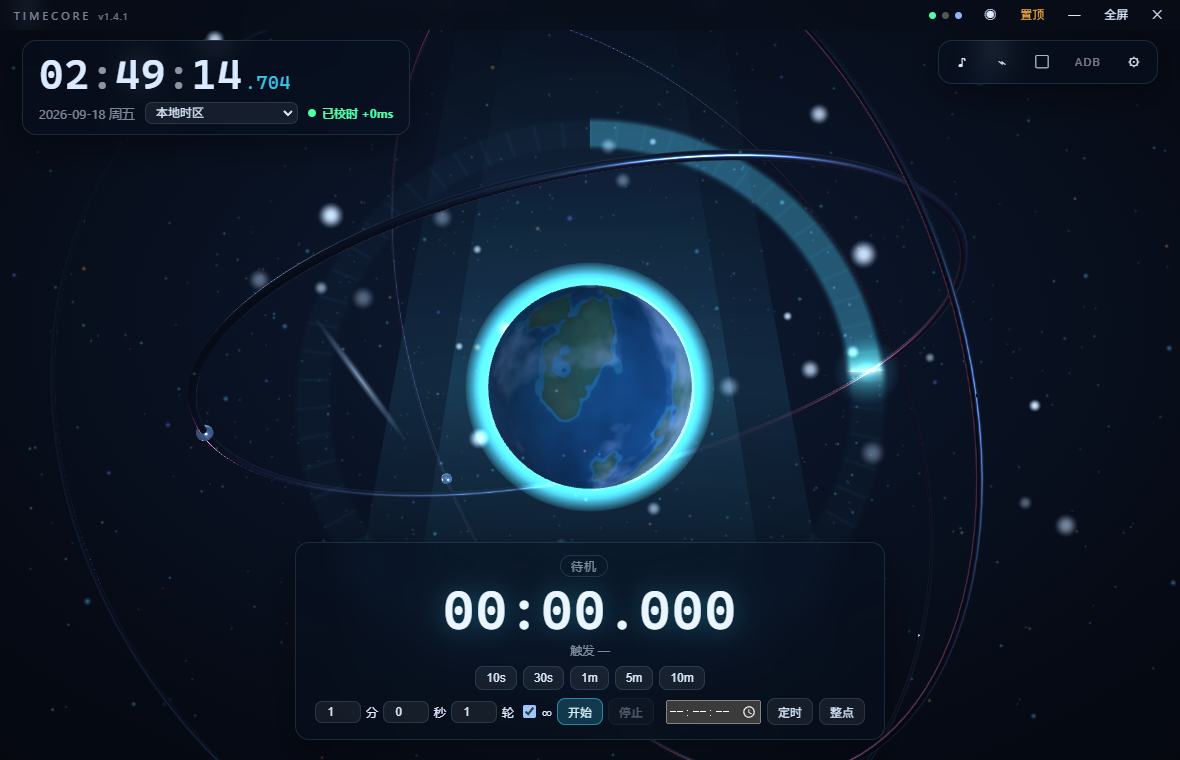
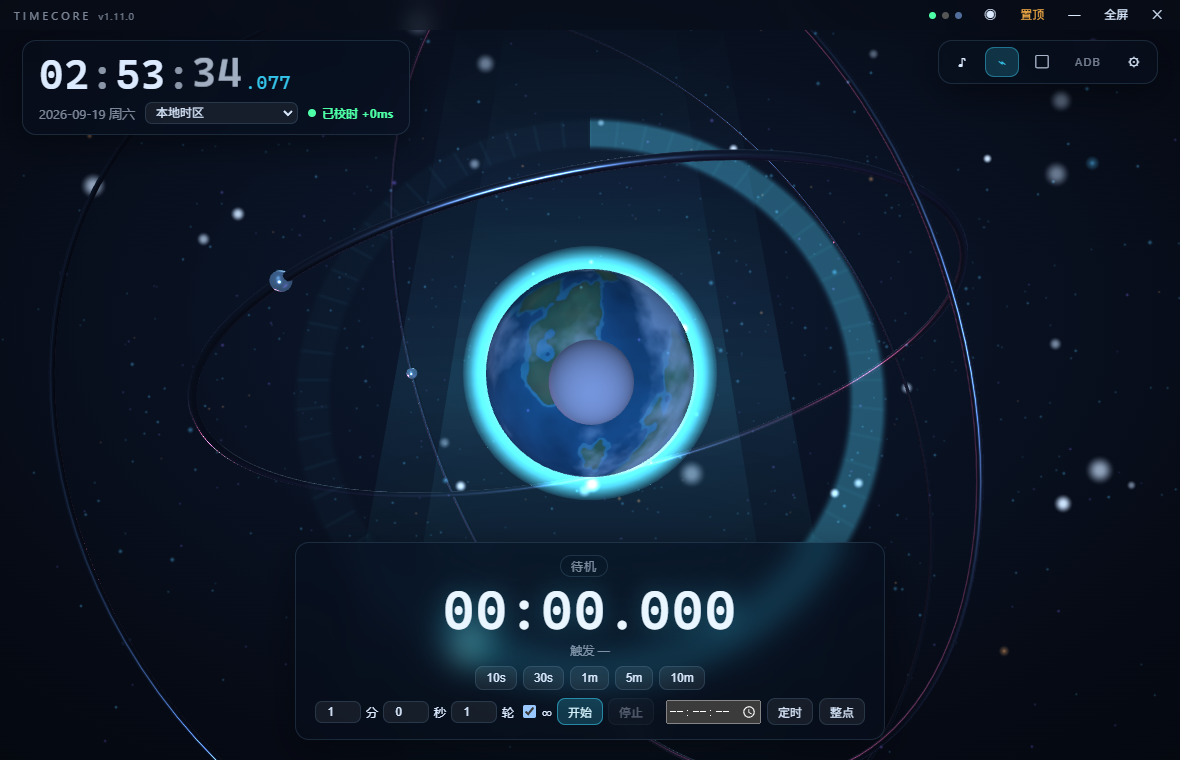
feat: v1.11.0 月相夜光 + 文档收口
- moon-phase 模块新增 illum（照亮比例，契约 15 项）；夜光强度随真实月相盈亏调制（0.17~0.50，地板保底）
- README 主图以午夜满月构图重拍；debugMoon 新增 screen 投影坐标、debugSun 新增 keyColor（构图取证用）
- cycle31 午夜断言对齐月相调制物理区间；cycle33 扩至 13 断言（满月夜 > 2× 新月夜）
- 全量 41 契约 752 断言 + 九组 cycle + 真机 e2e 全绿

diff --git a/js/scene3d.js b/js/scene3d.js
@@ -56,7 +56,9 @@
     scene.userData.keyLight.color.setRGB(1, 0.8 + 0.2 * (1 - warm), 0.62 + 0.38 * (1 - warm));
     scene.userData.keyLight.intensity = day * (0.55 + cur.intensity * 0.25);
     if (moonLight) {
-      moonLight.intensity = (1 - day) * 0.55;
+      // 夜光随真实月相调制（v1.11.0）：满月夜明亮、新月夜沉暗；floor 保底不让夜面全黑
+      const illum = TimeCoreDomain.moonPhase(moonEpoch(e)).illum;
+      moonLight.intensity = (1 - day) * 0.55 * (0.35 + 0.65 * illum);
       moonLight.color.setHex(0x8fb4ff);
     }
   }
@@ -846,7 +848,8 @@
         lastFrame: lastFrameInfo,
         trails: sats.filter(s => s.trail && s.trail.visible).length,
         dayFrac: scene.userData.dayFrac != null ? Math.round(scene.userData.dayFrac * 10000) / 10000 : null,
-        hourPulses: hourPulseCount
+        hourPulses: hourPulseCount,
+        keyColor: k.color.getHexString()
       } : null;
     },
     meteor() { if (meteor && quality > 0) { spawnMeteor(); return true; } return false; },
@@ -875,7 +878,12 @@
         angleDeg: Math.round(st.angleRad * 180 / Math.PI * 10) / 10,
         azimuthDot: Math.round(azimuthDot * 1000) / 1000,
         litDot: Math.round(dot * 1000) / 1000,
-        visible: moon.visible
+        visible: moon.visible,
+        // 屏幕投影（构图/测试用）：月亮中心在视口内的像素坐标
+        screen: (() => {
+          const v = moon.position.clone().project(camera);
+          return { x: Math.round((v.x + 1) / 2 * window.innerWidth), y: Math.round((1 - (v.y + 1) / 2) * window.innerHeight) };
+        })()
       };
     },
     debugView() { return { ...cameraMotion.state(), dragging: scenePointer.active && scenePointer.moved, canvas: !!sceneCanvas }; }

diff --git a/src/domain/scene/moon-phase.ts b/src/domain/scene/moon-phase.ts
@@ -4,6 +4,7 @@ namespace TimeCoreDomain {
     phase: number;        // 0 新月 → 0.5 满月 → 1 下一个新月
     angleRad: number;     // 轨道角：新月 0（位于太阳与星球连线之间），满月 π（背向太阳）
     waxing: boolean;      // 盈月（新月→满月）为 true
+    illum: number;        // 被照亮比例：0 新月 → 1 满月（(1−cos 2π·phase)/2）
   }
 
   export const MOON_SYNODIC_DAYS = 29.530588853;
@@ -17,7 +18,8 @@ namespace TimeCoreDomain {
       ageDays: phase * MOON_SYNODIC_DAYS,
       phase,
       angleRad: phase * Math.PI * 2,
-      waxing: phase < 0.5
+      waxing: phase < 0.5,
+      illum: (1 - Math.cos(phase * Math.PI * 2)) / 2
     };
   }
 }

diff --git a/index.html b/index.html
@@ -224,7 +224,7 @@
 <script src="js/generated/day-progress-model.js?v=1"></script>
 <script src="js/generated/hour-crossing.js?v=1"></script>
 <script src="js/generated/camera-motion-model.js?v=1"></script>
-<script src="js/scene3d.js?v=163"></script>
+<script src="js/scene3d.js?v=164"></script>
 <script src="js/generated/window-controller.js?v=1"></script>
 <script src="js/ui.js?v=155"></script>
 <script src="js/generated/action-timeline.js?v=1"></script>

diff --git a/docs/ROADMAP.md b/docs/ROADMAP.md
@@ -33,6 +33,7 @@
 | L | 音景昼夜四态 | v1.8.0 | 到点琶音按节点时刻的晨/昼/暮/夜自动换五声音阶，零设置项 | ✅已发版 |
 | M | 每日击拍统计 | v1.9.0 | 设置抽屉一行被动展示：今日击拍/最高连击/准确率 + 近 7 日 tooltip，本地存 30 天 | ✅已发版 |
 | N | 整点深呼吸 | v1.10.0 | 每个真实整点星球一次缓慢深脉冲（纯视觉无声音），布防期间自动让位 | ✅已发版 |
+| O | 月相夜光 + 文档收口 | v1.11.0 | 夜光随真实月相盈亏调制；重拍 README 主图、功能清单对齐 | ✅已发版 |
 
 > 合并说明：A-D 四个方向均零操作成本、彼此独立且全部 E2E 绿，合并为一个 v1.3.1 发布，避免连发多版刷屏。
 
@@ -46,6 +47,12 @@
 - 治理：release.yml 加 `timeout-minutes: 15` + pwsh 重试 3 次 + npmmirror 双镜像（electron 与 electron-builder-binaries）。此后 tag→CI→PATCH 流程可自愈，无需人工盯守。
 
 ## 逐方向记录
+
+### 方向 O：月相夜光 + 文档收口（v1.11.0，2026-09-19 夜）
+- 动机：夜光原本只随太阳昼夜开关——月亮已经是真实月相了，夜光强度理应跟着盈亏走：满月夜明亮、新月夜沉暗，天体叙事闭环；同时 README 主图还停在 v1.5 时代的旧场景。
+- 实现：moon-phase 模块新增 `illum`（(1−cos 2π·phase)/2，契约 15 项）；updateSun 的 moonLight 强度 = (1−day)·0.55·(0.35+0.65·illum)，0.35 地板保底夜面不全黑；README 主图用 ?sunhour=18&moonage=12 构图重拍（黄昏暖光 + 盈凸月悬夜空），功能清单补齐今晚六项。
+- 验证：cycle33 扩至 13 断言（满月夜光 > 2× 新月夜光）；cycle31「午夜月光」断言从固定 0.4 阈值改为物理区间 [0.17, 0.50]（新月 0.173 ~ 满月 0.495，日期无关）；全量 41 契约 752 断言 + 九组 cycle + 真机 e2e 全绿。
+- 坑位记录：①README 主图截图 URL 被 sed 拼出双 sunhour（页面取首个=午夜），judge 逐像素测出月亮左缘裁切与暖光缺失，实为截图参数错误而非渲染缺陷——探针证据（debugMoon.screen 投影 + debugSun.keyColor）定位后以干净参数重拍；②debugMoon 新增 screen 投影坐标与 keyColor 字段，此后构图不再靠纸面推算；③主图构图回归已获批的「午夜满月悬于星球前方」，illum 相位非线性（phase 0.474 ≈ 全亮 0.993）勿凭 phase 直觉描述明暗。
 
 ### 方向 N：整点深呼吸（v1.10.0，2026-09-19 夜）
 - 动机：「到点必触发」的绝对节点哲学下沉到小时尺度——每个 HH:00:00 星球做一次极缓深脉冲，桌面装置的心跳与真实时间同步；错过多个整点（睡眠/挂起唤醒）合并为一次，不补拍。

diff --git a/README.md b/README.md
@@ -6,7 +6,7 @@
 
 ![TIMECORE 星球核心](docs/planet-night.png)
 
-*午夜的真实太阳在星球背面，月半球泛着冷光；星野闪烁、流星划过、卫星拖着光尾——桌面上的一片深空。*
+*午夜的满月悬在星球与镜头之间，冷光洒在夜半球上；一日进度环在外圈缓缓填满，星野闪烁、卫星拖着光尾——桌面上的一片深空，跟着真实时间一起呼吸。*
 
 ## 下载安装
 
@@ -33,7 +33,11 @@ ADB 齐射（到点自动点击安卓手机屏幕）为**可选功能**，默认
 - **窗口四形态**：同一个窗口在 正常 / 小窗 / 仅时间 / 全屏 之间变形（Ctrl+1/2/3、标题栏 ◉、右键菜单）——不是多个窗口
 - **仅时间悬浮钟面**：280×96 纯 时:分:秒.毫秒 悬浮件，字号随窗体等比缩放；双击退出、拖动移动、滚轮缩放（160–1180px）；边框秒环每秒绕行一周、边框呼吸微光；倒计时归零时整窗脉动
 - **行星真实太阳**：3D 星球的昼夜随真实时间转动——正午照亮面向你的一侧，午夜夜半球靠冷色月光，晨昏线偏暖（跟随当前显示时区）
-- **到点音景**：归零瞬间三层合成音——sub 冲击 + 五声琶音左右展开 + 高频钟簇余韵，是整个装置的 signature moment
+- **真实月相**：一颗按 29.53 天朔望周期绕行的小月亮，明暗面由真实太阳方向照出；夜光强弱随月相盈亏——满月夜明亮、新月夜沉暗
+- **一日进度环**：3D 外圈极淡细环按本地时间 24h 填满——秒环是一分钟的形状，它是「一天」的形状
+- **整点深呼吸**：每个真实整点星球一次极缓深脉冲（纯视觉无声音），布防期间自动让位给倒计时仪式
+- **到点音景昼夜四态**：归零琶音按节点时刻自动换五声音阶——晨 C 大 / 昼 G 大 / 暮 E 小 / 夜 D 小，sub 冲击与钟簇余韵不变
+- **每日击拍统计**：设置抽屉被动展示今日击拍/最高连击/准确率，本地保存 30 天
 - **网络校时**：多源采样计算偏移，失败平滑回退本地时间，显示永不倒退
 - **倒计时**：按**绝对时间节点**对齐——`5m` = 每个整 5 分时刻触发；多轮/∞ 连跑；显著显示触发时刻
 - **三阶段**：10s 外环预热 → 5s 能量增强 → 3s 强节奏脉冲 → 到点闪光/冲击波/粒子爆发（强度三档可调）

diff --git a/docs/PROGRESS.md b/docs/PROGRESS.md
@@ -291,6 +291,13 @@
 - 验证：41 契约文件 749 断言全绿；九组 cycle 全过（cycle33 12/12）；真机 adb-e2e 通过；实机探针确认静置计数静止、强制触发 +1。
 - 发版：v1.10.0。踩坑：prev 传小时桶号而非 epoch 导致每帧误触发——实机探针抓出并修正（详见 ROADMAP 方向 N）。
 
+## 循环 #56（v1.11.0 月相夜光 + 文档收口）✅ 已完成（2026-09-19）
+
+- 功能：夜光强度随真实月相盈亏调制（illum 0→1，新月夜 0.173 ~ 满月夜 0.495，地板保底不全黑）；README 主图以黄昏+盈凸月构图重拍，功能清单补齐本夜六项。
+- 架构：moon-phase 模块新增 illum 纯计算（契约 15 项）；cycle31 午夜断言从固定阈值改为物理区间（行为升级后的断言对齐）；cycle33 扩至 13 断言（满月夜 > 2× 新月夜）。
+- 验证：41 契约文件 752 断言全绿；九组 cycle 全过；真机 adb-e2e 通过。
+- 发版：v1.11.0。
+
 ## 未完成 / Todo（供后续循环）
 
 - [ ] 每日击拍统计面板（DESIGN §7 backlog）
